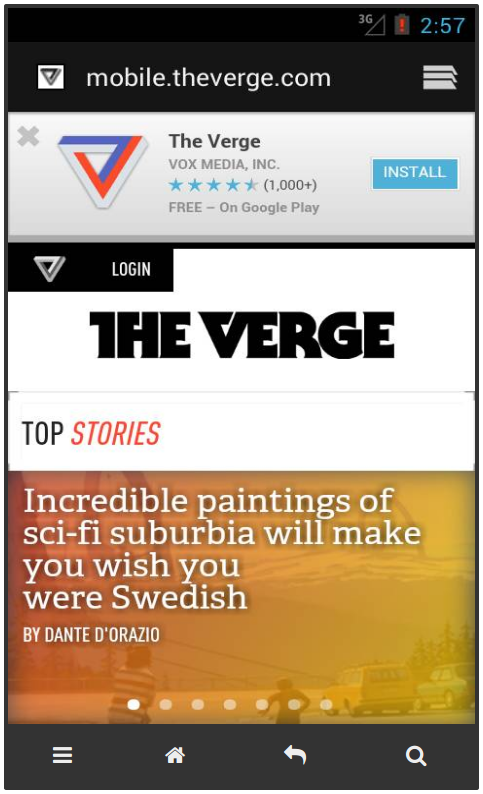
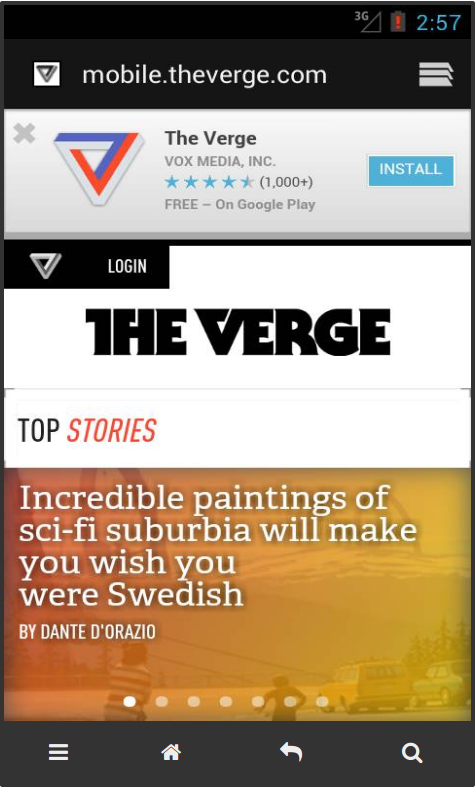
Fixes for bulletproof tests article

Changed region(s): [[0.0, 0.0, 1.0, 1.0], [0.6471, 0.3655, 0.8235, 0.4569], [0.0588, 0.3046, 0.1471, 0.3655]]

diff --git a/_includes/nav-guides.html b/_includes/nav-guides.html
@@ -11,7 +11,7 @@
 		<a href="/docs/guides/ant-task">Automated Test Execution with Ant</a>
 	</li>
 	<li>
-		<a href="/docs/bulletproof-tests">Bulletproof tests</a>
+		<a href="/docs/guides/bulletproof-tests">Bulletproof tests</a>
 	</li>
 	<li>
 		<a href="/docs/emulators">Emulators</a>

diff --git a/css/base.css b/css/base.css
@@ -134,3 +134,13 @@ pre {
 .emulator-table tr td:first-of-type {
 	text-align: left;
 }
+
+/* Bulletproof tests */
+.side-by-side {
+	margin-bottom: 40px;
+}
+
+.side-by-side img {
+	display: inline-block;
+	width: 40%;
+}

diff --git a/docs/reference/locator.md b/docs/reference/locator.md
@@ -101,18 +101,18 @@ alias: docs/references/scripting-api/locator/
 {% highlight js %}waitUpdates(60){% endhighlight %}
 </p>
   In some cases application requires some time to update the screen between actions.  
-  For example when user needs to login he first needs to click "Login" button, then type his credentials and press "Confirm" button.  
-  If application takes some time to load login form then system might start typing credentials when screen is not ready yet.  
-  **waitUpdates()** ensures that screen is ready before next action can be performed.  
-  If screen still changes next action will not be performed until there are no more updates except for really 
+  For example when a user needs to login he first needs to click on the "Login" button, then type his credentials and press the "Confirm" button.  
+  If an application takes some time to load the login form then the system might start typing credentials when the screen is not ready yet.  
+  **waitUpdates()** ensures that the screen is ready before next action can be performed.  
+  If the screen still changes next action will not be performed until there are no more updates except for really 
   small ones to ignore blinking cursors.  
-  If page is supposed to change all the time because of animation, then timeout can be decreased.  
+  If an application screen is supposed to change all the time because of an animation, then the timeout can be decreased.  
   When to use:  
   - System starts typing when textfield is not yet on the screen.  
-  - Normally system clicks the button as soon as it finds it on the screen. In some cases all elements on the screen has to be loaded first.  
+  - Normally the system clicks on the button as soon as it finds it on the screen. In some cases all elements on the screen have to be loaded beforehand.  
   
-  Usually **waitUpdates()** are inserted during the recording when system detects that an action was followed by a lot of screen changes.  
-  Load speed characteristics of web applications can vary from execution to execution so in some cases **waitUpdates()** 
+  Usually **waitUpdates()** are inserted during the recording when the system detects that an action was followed by a lot of screen changes.  
+  Load speed characteristics of web applications can vary from an execution to an execution so in some cases **waitUpdates()** 
   might not be inserted automatically because the page loaded fast during recording but loads slowly during some of the replays.  
   In this case **waitUpdates()** should be inserted manually.  
   Read more about <a href="docs/guides/bulletproof-tests">making your tests bulletproof</a>.

diff --git a/docs/guides/bulletproof-tests.md b/docs/guides/bulletproof-tests.md
@@ -29,7 +29,9 @@ permalink: docs/guides/bulletproof-tests/
   Most of stability issues come from the time that an application needs to generate view for the user.  
 
   Lets look at screenshots below:  
-  <img src="/img/guides/bulletproof-tests/theverge1.png" /> <img src="/img/guides/bulletproof-tests/theverge2.png" />
+<div class="side-by-side">
+ 	<img src="/img/guides/bulletproof-tests/theverge1.png" /> <img src="/img/guides/bulletproof-tests/theverge2.png" />
+</div>
 
   First one was taken when page was loading and the second one after page was ready.  
   Imagine that the first step in your script after loading a starting page is clicking on the "Login" button:  
